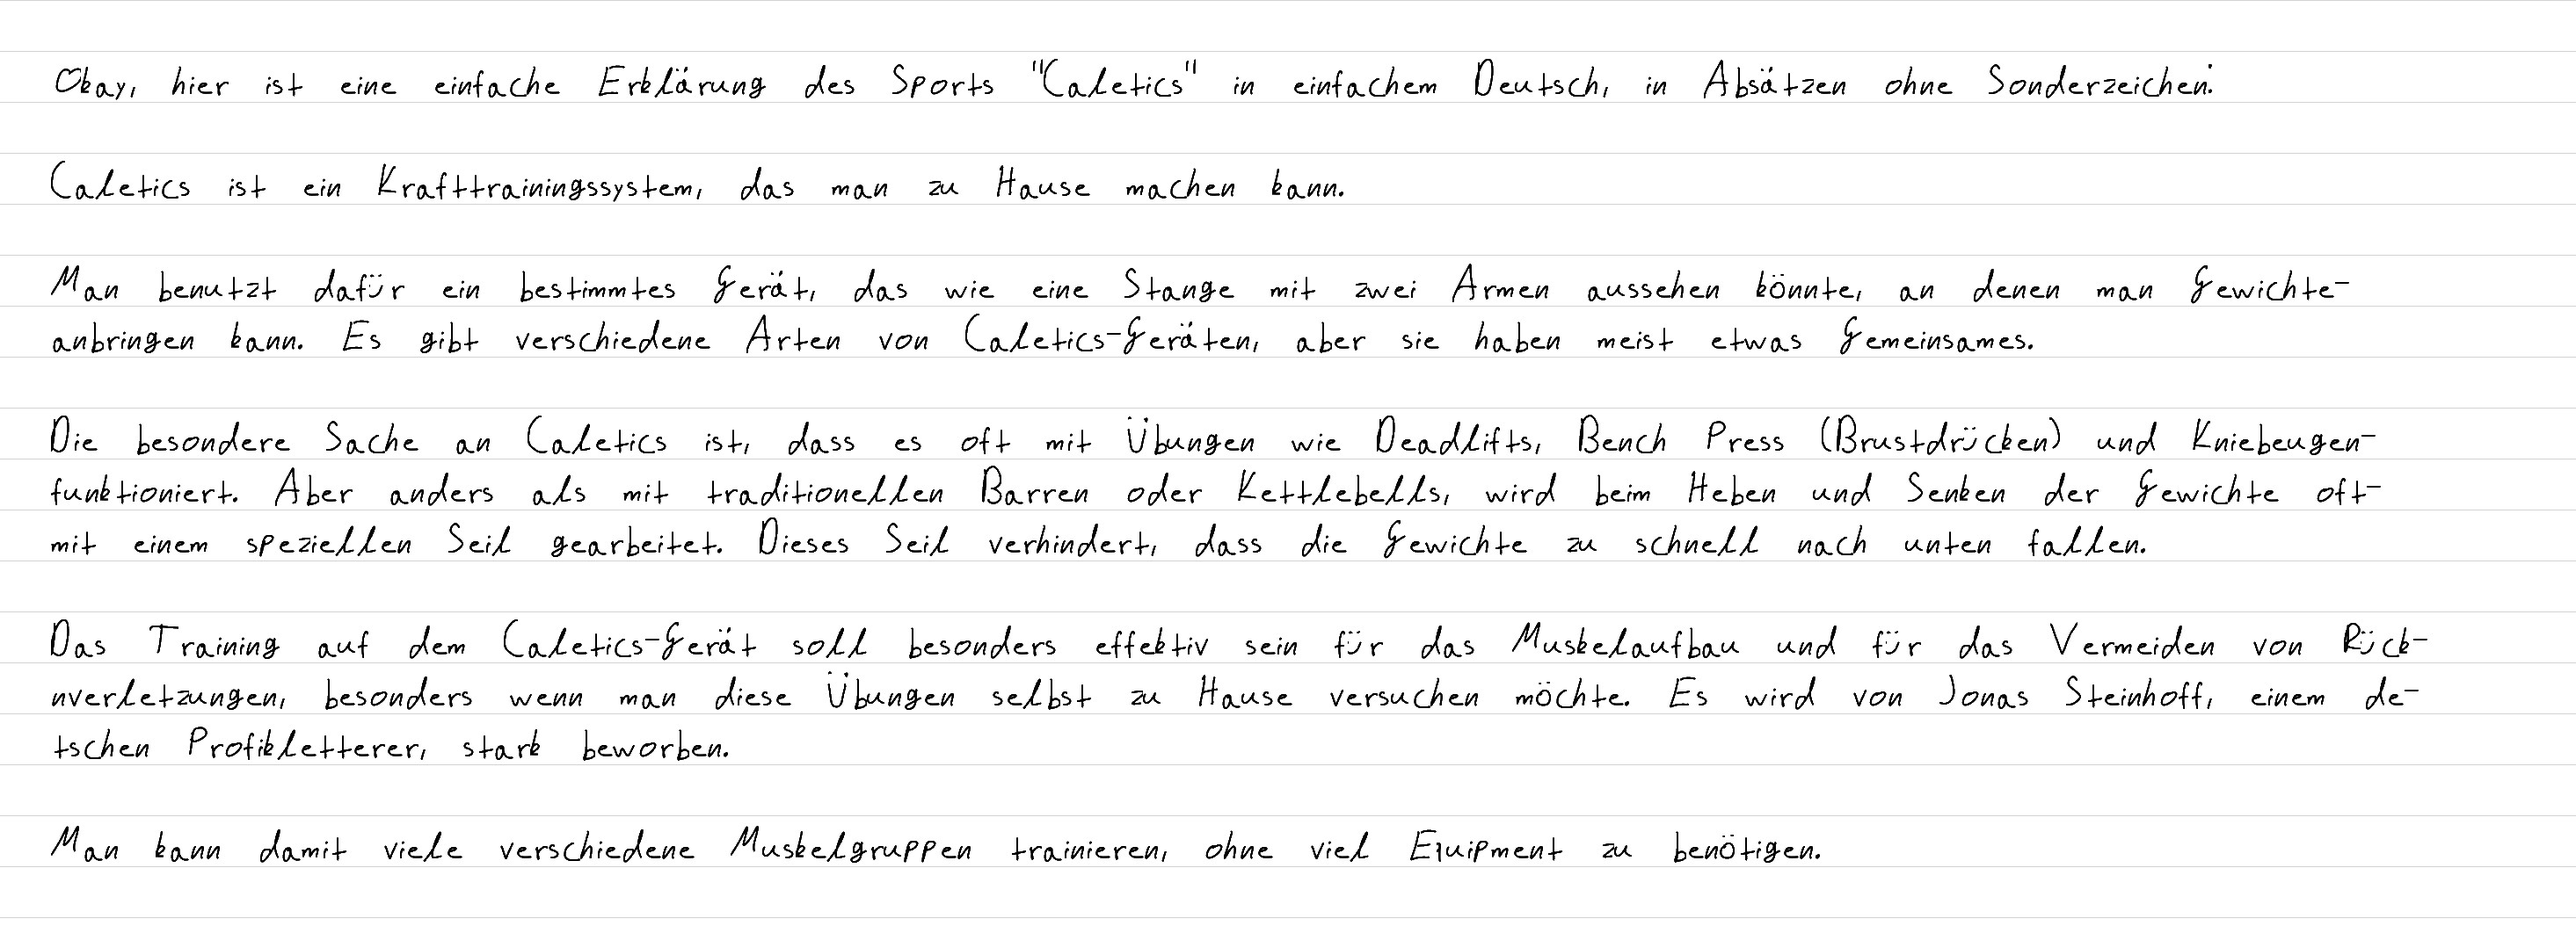
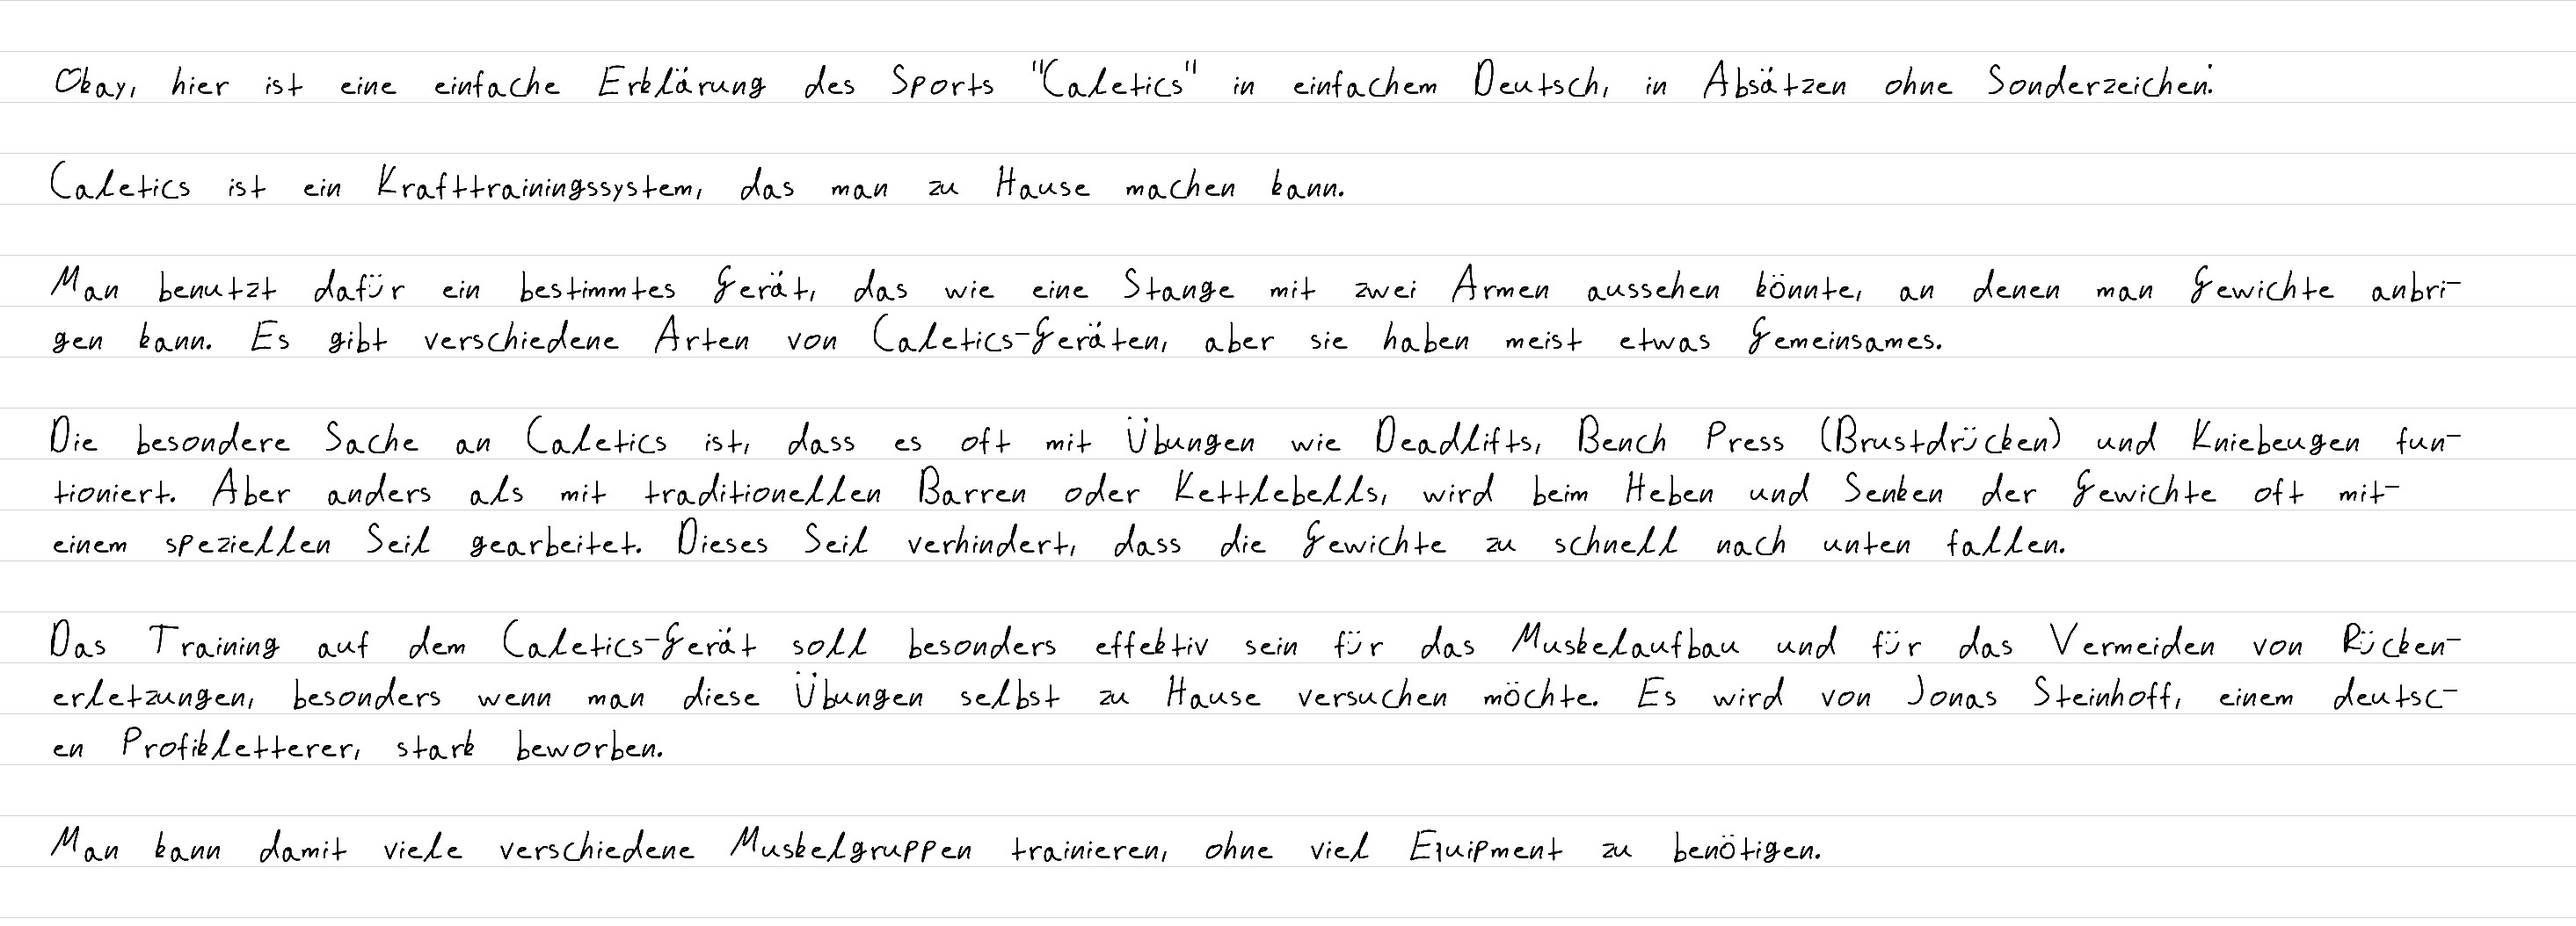
fixed dash huge offset

diff --git a/main.c b/main.c
@@ -371,7 +371,7 @@ int32_t main(int32_t argc, char** argv) {
  
         // check end to dash
         const uint32_t pixels_char_horizontal = get_char_width(asci_string[i]);
-        if (info.current_x + pixels_char_horizontal * 4 >= info.usable_pixels_horizontal && info.in_word) {
+        if (info.current_x + pixels_char_horizontal * 2.5f >= info.usable_pixels_horizontal && info.in_word) {
             add_char('-', &info);
             info.current_x = 0;
             info.current_y += info.char_size;
